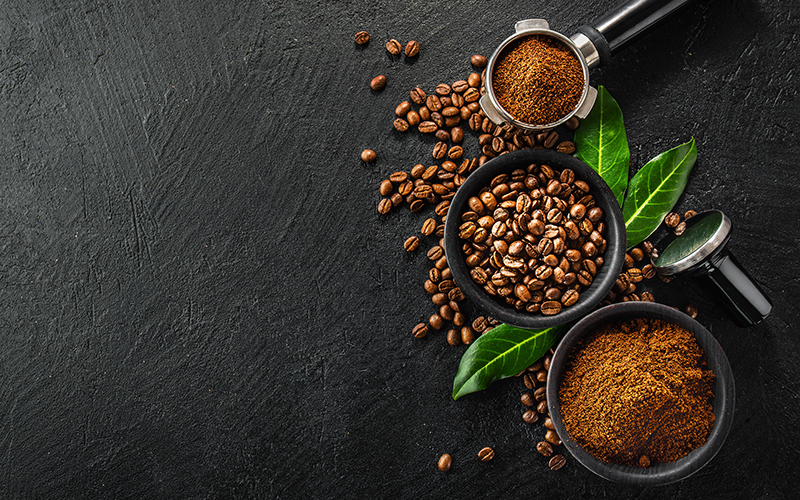
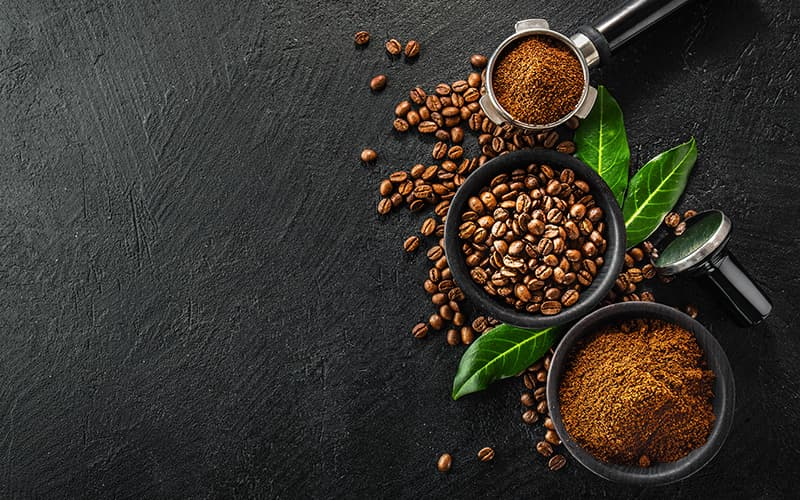
converting px into em and rem units + optimizing images

diff --git a/assets/css/main/share.css b/assets/css/main/share.css
@@ -5,7 +5,7 @@
 .share {
   display: flex;
   flex-wrap: wrap;
-  gap: 20px;
+  gap: 1.25rem;
   align-items: center;
   justify-content: space-between;
 }
@@ -13,7 +13,7 @@
 .share p {
   display: flex;
   align-items: center;
-  gap: 16px;
+  gap: 1rem;
   color: #b2b2b2;
   font-weight: 700;
   text-transform: uppercase;
@@ -27,20 +27,20 @@
 .share-social-list {
   display: flex;
   flex-wrap: wrap;
-  gap: 16px;
+  gap: 1rem;
 }
 
 .share-social-item {
   display: flex;
   align-items: center;
-  gap: 4px;
+  gap: 0.25rem;
 }
 
 .share-social-item a {
   width: 40px;
   height: 40px;
   border-radius: 50%;
-  padding: 12px;
+  padding: 0.5em;
   display: flex;
   align-items: center;
   justify-content: center;

diff --git a/assets/css/global/footer.css b/assets/css/global/footer.css
@@ -5,13 +5,13 @@
 .footer {
   display: flex;
   flex-wrap: wrap;
-  gap: 20px;
+  gap: 1.25rem;
 }
 
 .footer-list {
   flex: 1;
   display: flex;
-  gap: 8px;
+  gap: 0.5rem;
 }
 
 .footer-list a {
@@ -31,7 +31,7 @@
 
 .footer p {
   color: #7e7e7e;
-  flex: 2;
+  flex-grow: 2;
   flex-basis: 280px;
 }
 
@@ -43,7 +43,7 @@
   flex-grow: 1;
   flex-basis: 280px;
   background: #373737;
-  padding: 20px;
+  padding: 1.25em;
   border-radius: 4px;
   display: flex;
   flex-direction: column;
@@ -53,7 +53,7 @@
 .footer .form input {
   font-size: 1rem;
   width: 100%;
-  padding: 8px;
+  padding: 0.5em;
   border: none;
   border-bottom: 2px solid #fff;
   color: #fff;

diff --git a/assets/css/main/team.css b/assets/css/main/team.css
@@ -23,7 +23,7 @@
 .team-slide-area {
   display: flex;
   justify-content: center;
-  gap: 20px;
+  gap: 1.25rem;
 }
 
 .team-slide-item {
@@ -45,7 +45,7 @@
 
 .team-slide-item-social {
   display: flex;
-  gap: 8px;
+  gap: 0.5rem;
 }
 
 .team-slide-item-social a {
@@ -54,7 +54,7 @@
   width: 40px;
   height: 40px;
   border-radius: 50%;
-  padding: 12px;
+  padding: 0.5em;
   display: flex;
   justify-content: center;
   align-items: center;
@@ -69,7 +69,7 @@
   width: 100%;
   display: flex;
   justify-content: center;
-  gap: 12px;
+  gap: 0.5rem;
 }
 
 .team-pointer {

diff --git a/assets/css/main/banner.css b/assets/css/main/banner.css
@@ -15,6 +15,20 @@
   background: rgba(0, 0, 0, 0.7);
   color: #fff;
   text-transform: uppercase;
+  position: relative;
+}
+
+.banner-slide::after {
+  content: "";
+  display: block;
+  width: 20px;
+  height: 19px;
+  background: center no-repeat url("../../images/telefone.png") #b28257;
+  position: absolute;
+  bottom: -12px;
+  right: 40px;
+  padding: 12px;
+  border-radius: 50%;
 }
 
 .banner-slide-area {
@@ -51,7 +65,7 @@
   bottom: 40px;
   display: flex;
   justify-content: center;
-  gap: 12px;
+  gap: 0.5rem;
 }
 
 .banner-pointer {

diff --git a/assets/css/main/contact.css b/assets/css/main/contact.css
@@ -5,7 +5,7 @@
 .contact .form {
   display: flex;
   flex-wrap: wrap;
-  gap: 40px;
+  gap: 2.5rem;
 }
 
 .contact .form > *:not(.form button) {
@@ -22,7 +22,7 @@
 .contact .form input {
   font-size: 1rem;
   width: 100%;
-  padding: 8px;
+  padding: 0.5em;
   border: none;
   border-bottom: 2px solid #aeaeae;
   background: none;

diff --git a/assets/css/main/clients.css b/assets/css/main/clients.css
@@ -20,7 +20,7 @@
   flex-direction: column;
   align-items: center;
   justify-content: center;
-  gap: 20px;
+  gap: 1.25rem;
 }
 
 .client-slide-item {
@@ -45,7 +45,7 @@
   width: 100%;
   display: flex;
   justify-content: center;
-  gap: 12px;
+  gap: 0.5rem;
 }
 
 .client-pointer {

diff --git a/assets/css/main/premium.css b/assets/css/main/premium.css
@@ -18,7 +18,7 @@
 
 .premium-slide-info {
   display: flex;
-  gap: 80px;
+  gap: 5rem;
   flex-wrap: wrap;
   align-items: center;
 }
@@ -69,7 +69,7 @@
   width: 100%;
   display: flex;
   justify-content: center;
-  gap: 12px;
+  gap: 0.5rem;
   position: relative;
 }
 

diff --git a/assets/css/main/projects.css b/assets/css/main/projects.css
@@ -51,12 +51,12 @@ nav > * + * {
   display: flex;
   justify-content: center;
   flex-wrap: wrap;
-  gap: 20px;
+  gap: 1.25rem;
   padding: 1em;
 }
 
 .project-item {
-  flex: 1;
+  flex-grow: 1;
   flex-basis: 270px;
   position: relative;
 }

diff --git a/assets/css/main/map.css b/assets/css/main/map.css
@@ -35,10 +35,11 @@
   background: #aeaeae;
   width: 40px;
   height: 40px;
-  padding: 12px;
+  padding: 0.5em;
   border-radius: 50%;
   display: flex;
   align-items: center;
+  justify-content: center;
 }
 
 @container (max-width: 800px) {

diff --git a/assets/css/main/partners.css b/assets/css/main/partners.css
@@ -8,5 +8,5 @@
   flex-wrap: wrap;
   justify-content: center;
   align-items: center;
-  gap: 80px;
+  gap: 5rem;
 }
